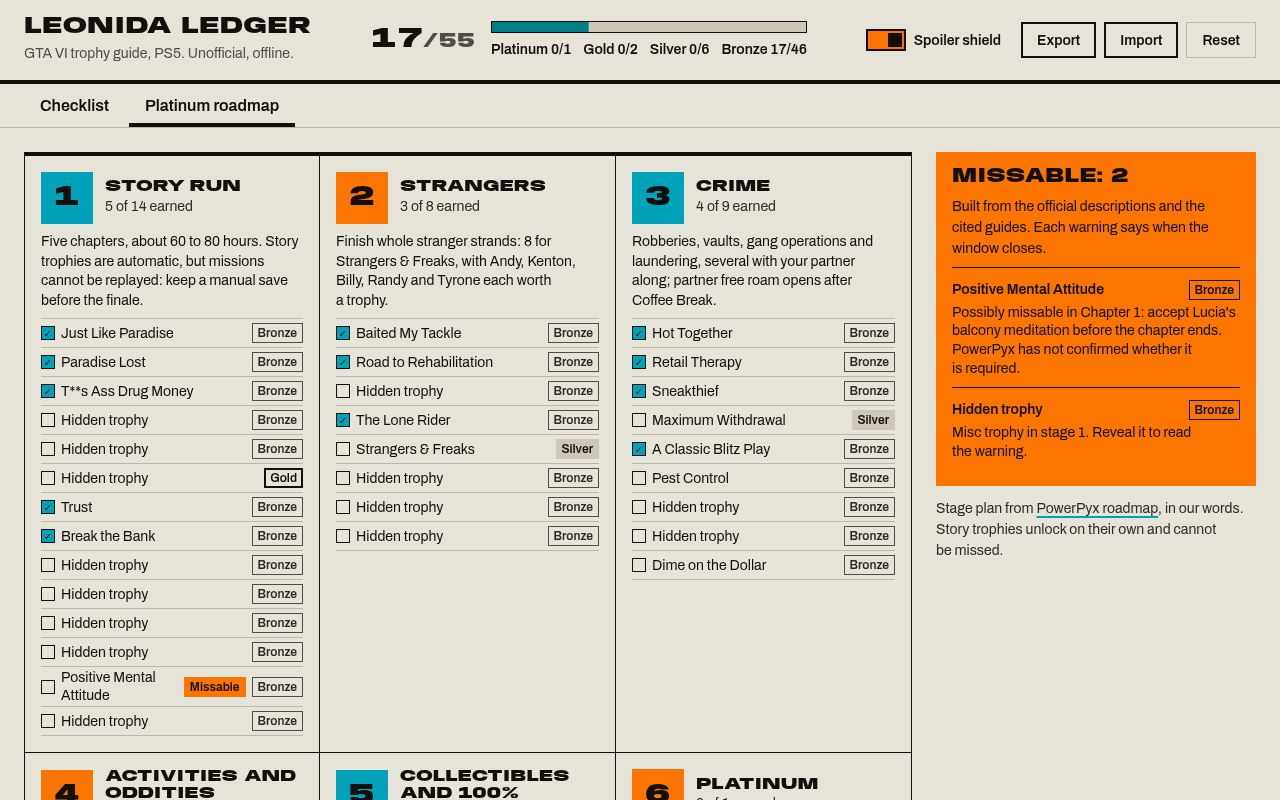
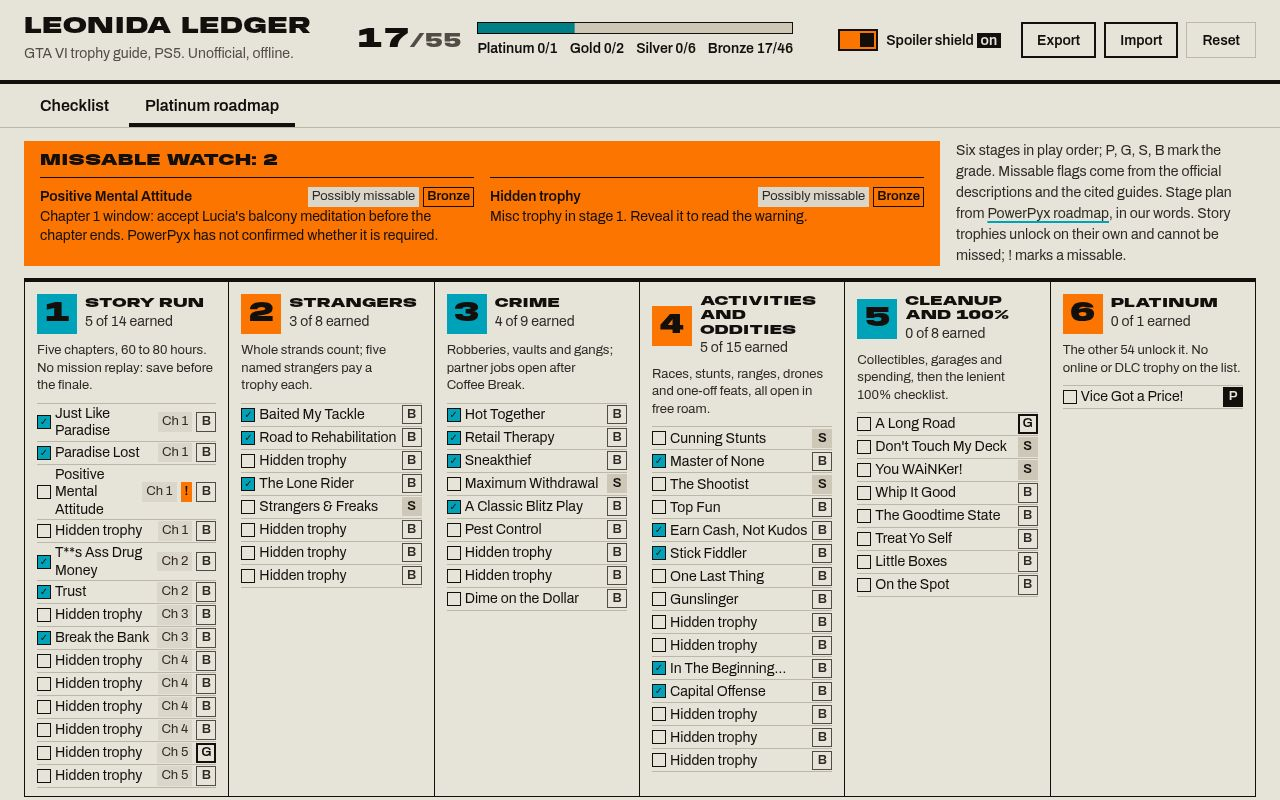
Apply critic fixes: roadmap fits on one screen in chapter order, possibly-missable labels, readable badges and sources, import names its ignored entries; Hallmark lint and polish pass

diff --git a/app/style.css b/app/style.css
@@ -2,6 +2,7 @@
  * nav: top bar + two tabs · signature: the ruled trophy ledger with its cited guide printed beside it · states: loading, empty, error, full · overprint: newsprint
  * axes: light/grotesk-heavy/cool · posture: full-palette · contrast: pass · v2.0.0 */
 /* Hallmark · pre-emit critique: P1 H1 E1 S1 R1 V1 · weakest: density at 1280x800, list and guide panes scroll on their own so both stay in view */
+/* Hallmark · answered: W3 the checkmark is two borders, not a stripe · W23 meter fill is a 12px bar · F4 danger fill lives only in the reset confirm, the pressed segment is state */
 
 @font-face { font-family: "Anybody"; src: url("fonts/anybody-900-wide.woff2") format("woff2"); font-weight: 900; font-stretch: 140%; font-display: swap; }
 @font-face { font-family: "Archivo"; src: url("fonts/archivo.woff2") format("woff2"); font-weight: 400 600; font-display: swap; }
@@ -28,7 +29,10 @@
 html, body { overflow-x: clip; }
 body { margin: 0; background: var(--color-paper); color: var(--color-ink); font-family: var(--font-body); font-size: var(--text-md); line-height: 1.5; -webkit-font-smoothing: antialiased; }
 :focus-visible { outline: 2px solid var(--color-focus); outline-offset: 2px; }
-h1, h2, h3 { margin: 0; font-family: var(--font-display); font-weight: 900; font-stretch: var(--display-stretch); text-transform: uppercase; letter-spacing: var(--tracking-display); line-height: 1.02; overflow-wrap: break-word; min-width: 0; }
+::selection { background: var(--color-accent-2); color: var(--color-ink); }
+html { scrollbar-color: var(--color-muted) var(--color-paper); }
+body { caret-color: var(--color-focus); }
+h1, h2, h3 { margin: 0; font-family: var(--font-display); font-weight: 900; font-stretch: var(--display-stretch); text-transform: uppercase; letter-spacing: var(--tracking-display); line-height: 1.02; overflow-wrap: break-word; min-width: 0; text-wrap: balance; }
 p { margin: 0; text-wrap: pretty; }
 button, input { font: inherit; color: inherit; }
 [hidden] { display: none !important; }
@@ -44,7 +48,7 @@ a:hover { text-decoration-color: var(--color-ink); }
 .tally-big { font-family: var(--font-display); font-weight: 900; font-stretch: 150%; font-variant-numeric: tabular-nums; line-height: 1; }
 .tally-n { font-size: var(--text-2xl); }
 .tally-of { font-size: var(--text-lg); color: var(--color-muted); }
-.tally-side { display: grid; gap: 6px; min-width: 300px; }
+.tally-side { display: grid; gap: var(--space-2xs); min-width: 300px; }
 .tally-grades { display: flex; gap: var(--space-sm); margin: 0; padding: 0; list-style: none; font-size: var(--text-sm); font-weight: 600; font-variant-numeric: tabular-nums; }
 .meter { --fill: 0; position: relative; display: block; height: 10px; width: 120px; background: var(--color-paper-3); box-shadow: inset 0 0 0 1px var(--color-ink); }
 .meter::after { content: ""; position: absolute; inset: 0; background: var(--color-accent); mix-blend-mode: var(--blend); transform-origin: left; transform: scaleX(var(--fill)); transition: transform var(--dur-short) var(--ease-out); }
@@ -54,7 +58,8 @@ a:hover { text-decoration-color: var(--color-ink); }
 /* Controls */
 .btn { display: inline-flex; align-items: center; justify-content: center; min-height: 36px; padding: 0 var(--space-md); border: 0; background: var(--color-paper); box-shadow: inset 0 0 0 2px var(--color-ink); font-weight: 600; font-size: var(--text-sm); cursor: pointer; user-select: none; transition: background-color var(--dur-micro), transform var(--dur-micro); }
 .btn:hover { background: var(--color-paper-3); }
-.btn:active { transform: scale(0.97); }
+.btn:active, .chip:active:not(:disabled), .seg button:active, .reveal:active { transform: scale(0.96); }
+.chip, .seg button, .reveal { transition: background-color var(--dur-micro), transform var(--dur-micro); }
 .btn:disabled { opacity: 0.5; cursor: not-allowed; }
 .btn-primary { background: var(--color-accent); color: var(--color-accent-ink); }
 .btn-primary:hover { background: var(--color-accent-2); }
@@ -67,15 +72,16 @@ label.btn:has(+ input:focus-visible) { outline: 2px solid var(--color-focus); ou
 
 .switch { display: inline-flex; align-items: center; gap: var(--space-xs); margin-right: var(--space-sm); font-size: var(--text-sm); font-weight: 600; cursor: pointer; min-height: 44px; }
 .switch input { position: absolute; opacity: 0; width: 1px; height: 1px; }
+.switch-state { font-variant-numeric: tabular-nums; padding: 0 var(--space-2xs); background: var(--color-ink); color: var(--color-paper); }
 .switch-track { position: relative; width: 40px; height: 22px; background: var(--color-paper-3); box-shadow: inset 0 0 0 2px var(--color-ink); }
 .switch-track::after { content: ""; position: absolute; top: 4px; left: 4px; width: 14px; height: 14px; background: var(--color-ink); transition: transform var(--dur-short) var(--ease-out); }
 .switch input:checked + .switch-track { background: var(--color-accent-2); }
 .switch input:checked + .switch-track::after { transform: translateX(18px); }
-.switch input:focus-visible + .switch-track { outline: 2px solid var(--color-focus); outline-offset: 2px; }
+.switch:has(input:focus-visible) { outline: 2px solid var(--color-focus); outline-offset: 2px; }
 
 /* Tabs */
 .tabs { display: flex; align-items: stretch; gap: var(--space-2xs); height: var(--tabs-h); padding-inline: var(--space-lg); border-bottom: var(--rule-hair) solid var(--color-rule); }
-[role="tab"] { border: 0; background: none; padding: 0 var(--space-md); font-weight: 600; cursor: pointer; box-shadow: inset 0 -4px 0 transparent; transition: box-shadow var(--dur-micro); }
+[role="tab"] { white-space: nowrap; border: 0; background: none; padding: 0 var(--space-md); font-weight: 600; cursor: pointer; box-shadow: inset 0 -4px 0 transparent; transition: box-shadow var(--dur-micro); }
 [role="tab"]:hover { box-shadow: inset 0 -4px 0 var(--color-rule); }
 [role="tab"][aria-selected="true"] { box-shadow: inset 0 -4px 0 var(--color-ink); }
 .status { margin-left: auto; align-self: center; font-size: var(--text-sm); font-weight: 600; }
@@ -85,8 +91,8 @@ main { height: calc(100vh - var(--bar-h) - var(--tabs-h)); }
 .checklist { display: grid; grid-template-columns: minmax(0, 1.3fr) minmax(0, 1fr); height: 100%; }
 .list-pane { display: flex; flex-direction: column; min-height: 0; border-right: var(--rule-bar) solid var(--color-ink); }
 .toolbar { display: grid; gap: var(--space-xs); padding: var(--space-sm) var(--space-lg); border-bottom: var(--rule-bar) solid var(--color-ink); }
-.chips { display: flex; flex-wrap: wrap; gap: 5px; }
-.chip { display: inline-flex; align-items: center; gap: 4px; min-height: 32px; padding: 0 7px; font-size: 13px; border: 0; background: var(--color-paper); box-shadow: inset 0 0 0 1px var(--color-ink); font-weight: 600; cursor: pointer; transition: background-color var(--dur-micro); }
+.chips { display: flex; flex-wrap: wrap; gap: var(--space-2xs); }
+.chip { display: inline-flex; align-items: center; gap: var(--space-2xs); min-height: 32px; padding: 0 var(--space-xs); font-size: 13px; border: 0; background: var(--color-paper); box-shadow: inset 0 0 0 1px var(--color-ink); font-weight: 600; cursor: pointer; transition: background-color var(--dur-micro); }
 .chip:hover { background: var(--color-paper-3); }
 .chip[aria-pressed="true"] { background: var(--color-accent); box-shadow: inset 0 0 0 2px var(--color-ink); }
 .chip:disabled { opacity: 0.5; cursor: not-allowed; background: var(--color-paper); }
@@ -102,33 +108,36 @@ input[type="search"]::placeholder { color: var(--color-muted); }
 .rows { flex: 1; min-height: 0; overflow-y: auto; margin: 0; padding: 0; list-style: none; }
 .row { display: grid; grid-template-columns: 44px minmax(0, 1fr) auto; align-items: center; border-bottom: var(--rule-hair) solid var(--color-rule); padding-right: var(--space-lg); }
 .row.is-open { background: var(--color-paper-2); box-shadow: inset 4px 0 0 var(--color-ink); }
-.row.is-earned .tick { background: var(--color-accent); }
-.tick { appearance: none; justify-self: center; width: 22px; height: 22px; margin: 0; background: var(--color-paper); box-shadow: inset 0 0 0 2px var(--color-ink); cursor: pointer; display: grid; place-content: center; }
-.tick:checked::after { content: ""; width: 11px; height: 6px; border-left: 3px solid var(--color-ink); border-bottom: 3px solid var(--color-ink); transform: translateY(-2px) rotate(-45deg); }
-.row-main { display: grid; gap: 1px; min-width: 0; padding: 9px var(--space-sm) 9px 0; border: 0; background: none; text-align: left; cursor: pointer; }
+.row.is-earned .tick::before { background: var(--color-accent); }
+/* 40px hit target; the 22px box is drawn by ::before */
+.tick { appearance: none; position: relative; justify-self: center; width: 40px; height: 40px; margin: 0; background: none; cursor: pointer; display: grid; place-content: center; }
+.tick::before { content: ""; position: absolute; inset: 9px; background: var(--color-paper); box-shadow: inset 0 0 0 2px var(--color-ink); }
+.tick:hover::before { background: var(--color-paper-3); }
+.tick:checked::after { content: ""; position: relative; width: 11px; height: 6px; border-left: 3px solid var(--color-ink); border-bottom: 3px solid var(--color-ink); transform: translateY(-2px) rotate(-45deg); }
+.row-main { display: grid; gap: 1px; min-width: 0; padding: var(--space-xs) var(--space-sm) var(--space-xs) 0; border: 0; background: none; text-align: left; cursor: pointer; }
 .row-name { font-weight: 600; line-height: 1.25; }
 .row-desc { font-size: var(--text-sm); color: var(--color-ink-2); line-height: 1.35; }
 .row.is-shut .row-name { color: var(--color-muted); }
-.row-meta { display: flex; align-items: center; justify-content: flex-end; gap: 6px; flex-wrap: wrap; max-width: 260px; }
+.row-meta { display: flex; align-items: center; justify-content: flex-end; gap: var(--space-2xs); flex-wrap: wrap; max-width: 260px; }
 .row-main:hover .row-name { text-decoration: underline 2px var(--color-accent); text-underline-offset: 0.18em; }
 .empty { padding: var(--space-xl) var(--space-lg); color: var(--color-ink-2); }
 
-.grade { display: inline-block; padding: 1px 6px; font-size: var(--text-xs); font-weight: 600; line-height: 1.5; font-variant-numeric: tabular-nums; }
+.grade { display: inline-block; padding: 0 var(--space-2xs); font-size: 13px; font-weight: 600; line-height: 1.5; font-variant-numeric: tabular-nums; }
 .grade-platinum { background: var(--color-ink); color: var(--color-paper); }
 .grade-gold { box-shadow: inset 0 0 0 2px var(--color-ink); }
 .grade-silver { background: var(--color-paper-3); }
 .grade-bronze { box-shadow: inset 0 0 0 1px var(--color-muted); color: var(--color-ink-2); }
-.tag { display: inline-block; padding: 1px 6px; font-size: var(--text-xs); line-height: 1.5; color: var(--color-ink-2); background: var(--color-paper-2); }
+.tag { display: inline-block; padding: 0 var(--space-2xs); font-size: 13px; line-height: 1.5; color: var(--color-ink-2); background: var(--color-paper-2); }
 .tag-miss { background: var(--color-accent-2); color: var(--color-accent-2-ink); font-weight: 600; }
 .tag-count { font-variant-numeric: tabular-nums; background: none; box-shadow: inset 0 0 0 1px var(--color-rule); }
-.reveal { min-height: 28px; padding: 0 10px; border: 0; background: var(--color-paper); box-shadow: inset 0 0 0 2px var(--color-ink); font-size: var(--text-xs); font-weight: 600; cursor: pointer; }
+.reveal { min-height: 28px; padding: 0 var(--space-sm); border: 0; background: var(--color-paper); box-shadow: inset 0 0 0 2px var(--color-ink); font-size: var(--text-xs); font-weight: 600; cursor: pointer; }
 .reveal:hover { background: var(--color-accent-2); }
 
 /* Detail: the open guide */
 .detail { min-height: 0; overflow-y: auto; padding: var(--space-lg); display: flex; flex-direction: column; gap: var(--space-md); }
 .detail-empty { color: var(--color-ink-2); }
 .detail-head { display: grid; gap: var(--space-xs); padding-bottom: var(--space-md); border-bottom: var(--rule-bar) solid var(--color-ink); }
-.detail-meta { display: flex; flex-wrap: wrap; gap: 6px; }
+.detail-meta { display: flex; flex-wrap: wrap; gap: var(--space-2xs); }
 .detail-name { font-size: var(--text-2xl); }
 .detail-desc { font-size: var(--text-lg); line-height: 1.35; }
 .miss-note { padding: var(--space-sm) var(--space-md); background: var(--color-accent-2); line-height: 1.4; }
@@ -141,10 +150,10 @@ input[type="search"]::placeholder { color: var(--color-muted); }
 .steps { margin: 0; padding-left: 1.4em; display: grid; gap: var(--space-xs); max-width: 62ch; }
 .steps li { line-height: 1.5; }
 .steps li::marker { font-weight: 600; font-variant-numeric: tabular-nums; }
-.cite { display: inline-block; margin-left: 2px; padding: 0 5px; font-size: var(--text-xs); font-weight: 600; line-height: 1.6; text-decoration: none; background: var(--color-accent); color: var(--color-accent-ink); vertical-align: 1px; }
+.cite { display: inline-block; margin-left: 2px; padding: 0 var(--space-2xs); font-size: 13px; font-weight: 600; line-height: 1.6; text-decoration: none; background: var(--color-accent); color: var(--color-accent-ink); vertical-align: 1px; }
 .cite:hover { background: var(--color-accent-2); }
 .sources { display: grid; gap: var(--space-xs); padding-top: var(--space-sm); border-top: var(--rule-hair) solid var(--color-rule); font-size: var(--text-sm); }
-.sources ul { margin: 0; padding: 0; list-style: none; display: grid; gap: 4px; }
+.sources ul { margin: 0; padding: 0; list-style: none; display: grid; gap: var(--space-2xs); }
 .src-url { color: var(--color-muted); }
 .guide-shut { padding: var(--space-md); background: var(--color-paper-2); }
 .guide-shut summary { font-weight: 600; cursor: pointer; }
@@ -152,30 +161,31 @@ input[type="search"]::placeholder { color: var(--color-muted); }
 .earned-at { font-size: var(--text-sm); color: var(--color-ink-2); }
 
 /* Roadmap */
-.roadmap { height: 100%; overflow-y: auto; padding: var(--space-lg); display: grid; grid-template-columns: minmax(0, 1fr) 320px; gap: var(--space-lg); align-items: start; }
-.bills { display: grid; grid-template-columns: repeat(3, minmax(0, 1fr)); border-top: var(--rule-bar) solid var(--color-ink); }
-.bill { padding: var(--space-md); border-bottom: var(--rule-hair) solid var(--color-ink); border-right: var(--rule-hair) solid var(--color-ink); display: grid; align-content: start; gap: var(--space-xs); }
-.bill:nth-child(3n + 1) { border-left: var(--rule-hair) solid var(--color-ink); }
-.bill-head { display: flex; gap: var(--space-sm); align-items: center; }
-.bill-num { display: grid; place-content: center; width: 52px; height: 52px; flex: none; font-family: var(--font-display); font-weight: 900; font-stretch: 150%; font-size: var(--text-2xl); }
+.roadmap { height: 100%; overflow-y: auto; padding: var(--space-sm) var(--space-lg); display: grid; gap: var(--space-sm); align-content: start; }
+.bills { display: grid; grid-template-columns: repeat(6, minmax(0, 1fr)); border-top: var(--rule-bar) solid var(--color-ink); }
+.bill { padding: var(--space-sm) var(--space-sm) var(--space-xs); border-bottom: var(--rule-hair) solid var(--color-ink); border-right: var(--rule-hair) solid var(--color-ink); display: grid; align-content: start; gap: var(--space-xs); }
+.bill:first-child { border-left: var(--rule-hair) solid var(--color-ink); }
+.bill-head { display: flex; gap: var(--space-xs); align-items: center; }
+.bill-num { display: grid; place-content: center; width: 40px; height: 40px; flex: none; font-family: var(--font-display); font-weight: 900; font-stretch: 150%; font-size: var(--text-2xl); font-variant-numeric: tabular-nums; }
 .bill-a .bill-num { background: var(--color-accent); }
 .bill-b .bill-num { background: var(--color-accent-2); }
-.bill-title { font-size: var(--text-md); }
+.bill-title { font-size: 14px; }
+.grade-mark { width: 20px; padding: 0; text-align: center; flex: none; }
 .bill-count { font-size: var(--text-sm); color: var(--color-ink-2); font-variant-numeric: tabular-nums; }
-.bill-plan { font-size: var(--text-sm); line-height: 1.4; }
+.bill-plan { font-size: 13px; line-height: 1.35; color: var(--color-ink-2); }
 .stage-list { margin: 0; padding: 0; list-style: none; border-top: var(--rule-hair) solid var(--color-rule); }
-.stage-link { display: flex; align-items: center; gap: 6px; width: 100%; min-height: 28px; padding: 2px 0; border: 0; background: none; text-align: left; cursor: pointer; font-size: var(--text-sm); }
+.stage-link { display: flex; align-items: center; gap: var(--space-2xs); width: 100%; min-height: 22px; padding: 1px 0; font-size: 13px; line-height: 1.2; border: 0; background: none; text-align: left; cursor: pointer; font-size: var(--text-sm); }
 .stage-link:hover .stage-name, .stage-link:hover .miss-name { text-decoration: underline 2px var(--color-accent); text-underline-offset: 0.18em; }
 .stage-item { border-bottom: var(--rule-hair) solid var(--color-rule); }
 .stage-check { width: 14px; height: 14px; flex: none; display: grid; place-content: center; box-shadow: inset 0 0 0 1px var(--color-ink); font-size: 10px; font-weight: 600; }
 .stage-item.is-earned .stage-check { background: var(--color-accent); }
 .stage-name, .miss-name { flex: 1; min-width: 0; line-height: 1.25; }
-.road-side { position: sticky; top: 0; display: grid; gap: var(--space-sm); }
+.road-top { display: grid; grid-template-columns: minmax(0, 1fr) 300px; gap: var(--space-md); align-items: end; }
 .road-src { font-size: var(--text-sm); color: var(--color-ink-2); }
-.missables { padding: var(--space-md); background: var(--color-accent-2); display: grid; gap: var(--space-xs); }
-.miss-title { font-size: var(--text-lg); }
+.missables { padding: var(--space-sm) var(--space-md); background: var(--color-accent-2); display: grid; gap: var(--space-xs); }
+.miss-title { font-size: var(--text-md); }
 .miss-lede { font-size: var(--text-sm); }
-.miss-list { margin: 0; padding: 0; list-style: none; display: grid; }
+.miss-list { margin: 0; padding: 0; list-style: none; display: grid; grid-template-columns: repeat(2, minmax(0, 1fr)); column-gap: var(--space-md); }
 .miss-list li { padding: var(--space-xs) 0; border-top: var(--rule-hair) solid var(--color-ink); }
 .miss-list .grade-bronze { color: var(--color-ink); box-shadow: inset 0 0 0 1px var(--color-ink); }
 .miss-name { font-weight: 600; }
@@ -183,11 +193,11 @@ input[type="search"]::placeholder { color: var(--color-muted); }
 .miss-list li.is-earned .miss-name { text-decoration: line-through; }
 
 /* Dialog */
-.dialog { width: min(480px, calc(100vw - 32px)); padding: 0; border: 0; background: var(--color-paper); color: var(--color-ink); box-shadow: inset 0 0 0 2px var(--color-ink), 8px 8px 0 var(--color-accent); }
+.dialog { width: 100%; max-width: 560px; padding: 0; border: 0; background: var(--color-paper); color: var(--color-ink); box-shadow: inset 0 0 0 2px var(--color-ink), 8px 8px 0 var(--color-accent); }
 .dialog::backdrop { background: var(--color-scrim); }
 .dlg { display: grid; gap: var(--space-md); padding: var(--space-lg); }
 .dlg-title { font-size: var(--text-lg); padding-bottom: var(--space-sm); border-bottom: var(--rule-bar) solid var(--color-ink); }
-.dlg-summary { font-family: var(--font-display); font-weight: 900; font-stretch: 150%; font-size: var(--text-xl); text-transform: uppercase; font-variant-numeric: tabular-nums; }
+.dlg-summary { font-family: var(--font-display); font-weight: 900; font-stretch: 150%; font-size: var(--text-2xl); text-transform: uppercase; font-variant-numeric: tabular-nums; }
 .dlg-error { color: var(--color-error); font-weight: 600; }
 .dlg-ignored { font-size: var(--text-sm); padding: var(--space-xs) var(--space-sm); box-shadow: inset 4px 0 0 var(--color-accent-2); background: var(--color-paper-2); }
 .dlg-actions { display: flex; justify-content: flex-end; gap: var(--space-xs); }
@@ -201,8 +211,14 @@ input[type="search"]::placeholder { color: var(--color-muted); }
   main { height: auto; }
   .checklist, .roadmap { grid-template-columns: 1fr; }
   .bills { grid-template-columns: 1fr; }
+  .road-top, .miss-list { grid-template-columns: 1fr; }
   .list-pane { border-right: 0; }
   .rows { max-height: 70vh; }
+  .toolbar-row { flex-wrap: wrap; }
+  .tally-side { min-width: 0; }
+  .row { grid-template-columns: 44px minmax(0, 1fr); padding-right: var(--space-md); }
+  .row-meta { grid-column: 2; justify-content: flex-start; max-width: none; padding-bottom: var(--space-xs); }
+  .bar-tools .switch { margin-right: 0; }
 }
 @media (prefers-reduced-motion: reduce) {
   *, *::before, *::after { transition-duration: 0.01ms !important; animation-duration: 0.01ms !important; }

diff --git a/app/js/roadmap.js b/app/js/roadmap.js
@@ -1,16 +1,16 @@
 // The platinum roadmap: stages in the order to play them, then every missable trophy with its warning.
-import { el, gradeBadge, KIND_LABEL } from './dom.js';
+import { el, gradeBadge, missLabel, KIND_LABEL, GRADE_LABEL } from './dom.js';
 import { isShielded } from './spoilers.js';
 
 export const ROADMAP_SOURCE = { name: 'PowerPyx roadmap', url: 'https://www.powerpyx.com/gta-6-grand-theft-auto-vi-trophy-guide-roadmap/' };
 
 export const STAGES = [
-  { title: 'Story run', plan: 'Five chapters, about 60 to 80 hours. Story trophies are automatic, but missions cannot be replayed: keep a manual save before the finale.' },
-  { title: 'Strangers', plan: 'Finish whole stranger strands: 8 for Strangers & Freaks, with Andy, Kenton, Billy, Randy and Tyrone each worth a trophy.' },
-  { title: 'Crime', plan: 'Robberies, vaults, gang operations and laundering, several with your partner along; partner free roam opens after Coffee Break.' },
-  { title: 'Activities and oddities', plan: 'Races, stunts, ranges, drones and arcades, plus one-off feats, garages and spending. Everything stays open in free roam.' },
-  { title: 'Collectibles and 100%', plan: 'Cards, WAiNK scans, vehicles and the map fog, then the lenient 100% checklist (about 60% of everything).' },
-  { title: 'Platinum', plan: 'Every other trophy earned unlocks the platinum. No online or DLC trophy is on the list.' },
+  { title: 'Story run', plan: 'Five chapters, 60 to 80 hours. No mission replay: save before the finale.' },
+  { title: 'Strangers', plan: 'Whole strands count; five named strangers pay a trophy each.' },
+  { title: 'Crime', plan: 'Robberies, vaults and gangs; partner jobs open after Coffee Break.' },
+  { title: 'Activities and oddities', plan: 'Races, stunts, ranges, drones and one-off feats, all open in free roam.' },
+  { title: 'Cleanup and 100%', plan: 'Collectibles, garages and spending, then the lenient 100% checklist.' },
+  { title: 'Platinum', plan: 'The other 54 unlock it. No online or DLC trophy on the list.' },
 ];
 
 function stageItem(t, progress, on) {
@@ -20,13 +20,15 @@ function stageItem(t, progress, on) {
     el('button', { type: 'button', class: 'stage-link', onclick: () => on.open(t.name) },
       el('span', { class: 'stage-check', 'aria-hidden': 'true' }, earned ? '✓' : ''),
       el('span', { class: 'stage-name' }, shut ? 'Hidden trophy' : t.name),
-      t.missable && !shut ? el('span', { class: 'tag tag-miss' }, 'Missable') : null,
-      gradeBadge(t.grade)));
+      t.chapter ? el('span', { class: 'tag' }, `Ch ${t.chapter}`) : null,
+      t.missable && !shut ? el('span', { class: 'tag tag-miss', title: missLabel(t) }, '!') : null,
+      el('span', { class: `grade grade-${t.grade} grade-mark`, title: `${GRADE_LABEL[t.grade]} trophy` }, GRADE_LABEL[t.grade][0])));
 }
 
 export function renderRoadmap(root, trophies, progress, on) {
   const bills = STAGES.map((s, i) => {
-    const items = trophies.filter((t) => t.stage === i + 1);
+    // story order: by chapter (from the cited guides), then list order
+    const items = trophies.filter((t) => t.stage === i + 1).sort((a, b) => (a.chapter ?? 9) - (b.chapter ?? 9) || a.id - b.id);
     const done = items.filter((t) => progress.earned[t.name]).length;
     return el('section', { class: `bill bill-${i % 2 ? 'b' : 'a'}`, 'aria-labelledby': `stage-${i + 1}` },
       el('div', { class: 'bill-head' },
@@ -39,19 +41,18 @@ export function renderRoadmap(root, trophies, progress, on) {
 
   const missables = trophies.filter((t) => t.missable);
   const strip = el('section', { class: 'missables', 'aria-labelledby': 'miss-title' },
-    el('h2', { id: 'miss-title', class: 'miss-title' }, `Missable: ${missables.length}`),
-    el('p', { class: 'miss-lede' }, 'Built from the official descriptions and the cited guides. Each warning says when the window closes.'),
+    el('h2', { id: 'miss-title', class: 'miss-title' }, `Missable watch: ${missables.length}`),
     el('ul', { class: 'miss-list' }, missables.map((t) => {
       const shut = isShielded(t, progress);
       return el('li', { class: progress.earned[t.name] ? 'is-earned' : '' },
         el('button', { type: 'button', class: 'stage-link', onclick: () => on.open(t.name) },
           el('span', { class: 'miss-name' }, shut ? 'Hidden trophy' : t.name),
-          gradeBadge(t.grade)),
+          el('span', { class: 'tag' }, missLabel(t)), gradeBadge(t.grade)),
         el('p', { class: 'miss-why' }, shut ? `${KIND_LABEL[t.kind]} trophy in stage ${t.stage}. Reveal it to read the warning.` : t.missable));
     })));
 
-  root.replaceChildren(el('div', { class: 'bills' }, bills), el('div', { class: 'road-side' }, strip,
-    el('p', { class: 'road-src' }, 'Stage plan from ',
+  root.replaceChildren(el('div', { class: 'road-top' }, strip,
+    el('p', { class: 'road-src' }, 'Six stages in play order; P, G, S, B mark the grade. Missable flags come from the official descriptions and the cited guides. Stage plan from ',
       el('a', { href: ROADMAP_SOURCE.url, target: '_blank', rel: 'noopener noreferrer' }, ROADMAP_SOURCE.name),
-      ', in our words. Story trophies unlock on their own and cannot be missed.')));
+      ', in our words. Story trophies unlock on their own and cannot be missed; ! marks a missable.')), el('div', { class: 'bills' }, bills));
 }

diff --git a/app/js/checklist.js b/app/js/checklist.js
@@ -1,5 +1,5 @@
 // The checklist: filter chips, the ruled trophy list, and the open trophy's cited guide beside it.
-import { el, gradeBadge, KIND_LABEL, GRADE_LABEL } from './dom.js';
+import { el, gradeBadge, missLabel, KIND_LABEL, GRADE_LABEL } from './dom.js';
 import { isShielded, searchableText } from './spoilers.js';
 
 export const FILTERS = [
@@ -57,7 +57,7 @@ export function renderList(root, list, progress, view, on) {
       el('span', { class: 'row-meta' },
         gradeBadge(t.grade),
         el('span', { class: 'tag' }, KIND_LABEL[t.kind]),
-        t.missable && !shut ? el('span', { class: 'tag tag-miss' }, 'Missable') : null,
+        t.missable && !shut ? el('span', { class: 'tag tag-miss' }, missLabel(t)) : null,
         t.count && !shut ? el('span', { class: 'tag tag-count' }, counterText(t, progress)) : null,
         shut ? el('button', { type: 'button', class: 'reveal', onclick: () => on.reveal(t.name) }, 'Reveal') : null));
   }));
@@ -75,7 +75,8 @@ export function renderDetail(root, t, progress, stages, on) {
   const earned = Boolean(progress.earned[t.name]);
   const head = el('header', { class: 'detail-head' },
     el('div', { class: 'detail-meta' }, gradeBadge(t.grade), el('span', { class: 'tag' }, KIND_LABEL[t.kind]),
-      el('span', { class: 'tag' }, `Stage ${t.stage}: ${stages[t.stage - 1].title}`)),
+      el('span', { class: 'tag' }, `Stage ${t.stage}: ${stages[t.stage - 1].title}`),
+      t.chapter ? el('span', { class: 'tag' }, `Chapter ${t.chapter}`) : null),
     el('h2', { class: 'detail-name' }, shut ? 'Hidden trophy' : t.name),
     el('p', { class: 'detail-desc' }, shut ? `A ${GRADE_LABEL[t.grade].toLowerCase()} ${KIND_LABEL[t.kind].toLowerCase()} trophy. Its name, description and guide stay hidden while the spoiler shield is on.` : t.description));
 
@@ -89,7 +90,7 @@ export function renderDetail(root, t, progress, stages, on) {
   }
 
   const parts = [head];
-  if (t.missable) parts.push(el('p', { class: 'miss-note' }, el('strong', {}, 'Missable. '), t.missable));
+  if (t.missable) parts.push(el('p', { class: 'miss-note' }, el('strong', {}, `${missLabel(t)}. `), t.missable));
   if (t.count) {
     const v = progress.counters[t.name] || 0;
     const step = t.count >= 1000 ? 5000 : 1;
@@ -106,7 +107,7 @@ export function renderDetail(root, t, progress, stages, on) {
   parts.push(el('div', { class: 'sources' },
     el('h3', { class: 'guide-title' }, t.sources.length ? 'Sources' : 'No source yet'),
     t.sources.length
-      ? el('ul', {}, t.sources.map((s) => el('li', {}, el('a', { href: s.url, target: '_blank', rel: 'noopener noreferrer' }, s.name), el('span', { class: 'src-url' }, ` ${s.url.replace(/^https?:\/\//, '')}`))))
+      ? el('ul', {}, t.sources.map((s) => el('li', {}, el('a', { href: s.url, target: '_blank', rel: 'noopener noreferrer' }, s.name), el('span', { class: 'src-url' }, ` ${new URL(s.url).hostname.replace(/^www\./, '')}`))))
       : el('p', {}, 'No public guide covers this trophy yet, so the steps above say only what its official description implies.')));
   parts.push(el('div', { class: 'detail-actions' },
     el('button', { type: 'button', class: `btn ${earned ? '' : 'btn-primary'}`, onclick: () => on.earn(t.name, !earned) }, earned ? 'Mark not earned' : 'Mark earned'),

diff --git a/app/index.html b/app/index.html
@@ -19,7 +19,7 @@
     <label class="switch">
       <input type="checkbox" role="switch" id="shield" checked>
       <span class="switch-track" aria-hidden="true"></span>
-      <span>Spoiler shield</span>
+      <span>Spoiler shield <span class="switch-state" id="shield-state">on</span></span>
     </label>
     <button type="button" class="btn" id="export">Export</button>
     <label class="btn" for="import-file">Import</label>

diff --git a/app/js/main.js b/app/js/main.js
@@ -49,6 +49,7 @@ function renderTally() {
 
 function render() {
   $('shield').checked = progress.settings.spoilerShield;
+  $('shield-state').textContent = progress.settings.spoilerShield ? 'on' : 'off';
   renderTally();
   if (view.tab === 'roadmap') { renderRoadmap($('view-roadmap'), trophies, progress, on); return; }
   const list = visibleTrophies(trophies, progress, view);

diff --git a/app/js/dom.js b/app/js/dom.js
@@ -19,3 +19,6 @@ export const KIND_LABEL = {
 export function gradeBadge(grade) {
   return el('span', { class: `grade grade-${grade}`, title: `${GRADE_LABEL[grade]} trophy` }, GRADE_LABEL[grade]);
 }
+
+// "Possibly missable" where the cited source has not confirmed the lockout.
+export const missLabel = (t) => t.missable_label || 'Missable';
